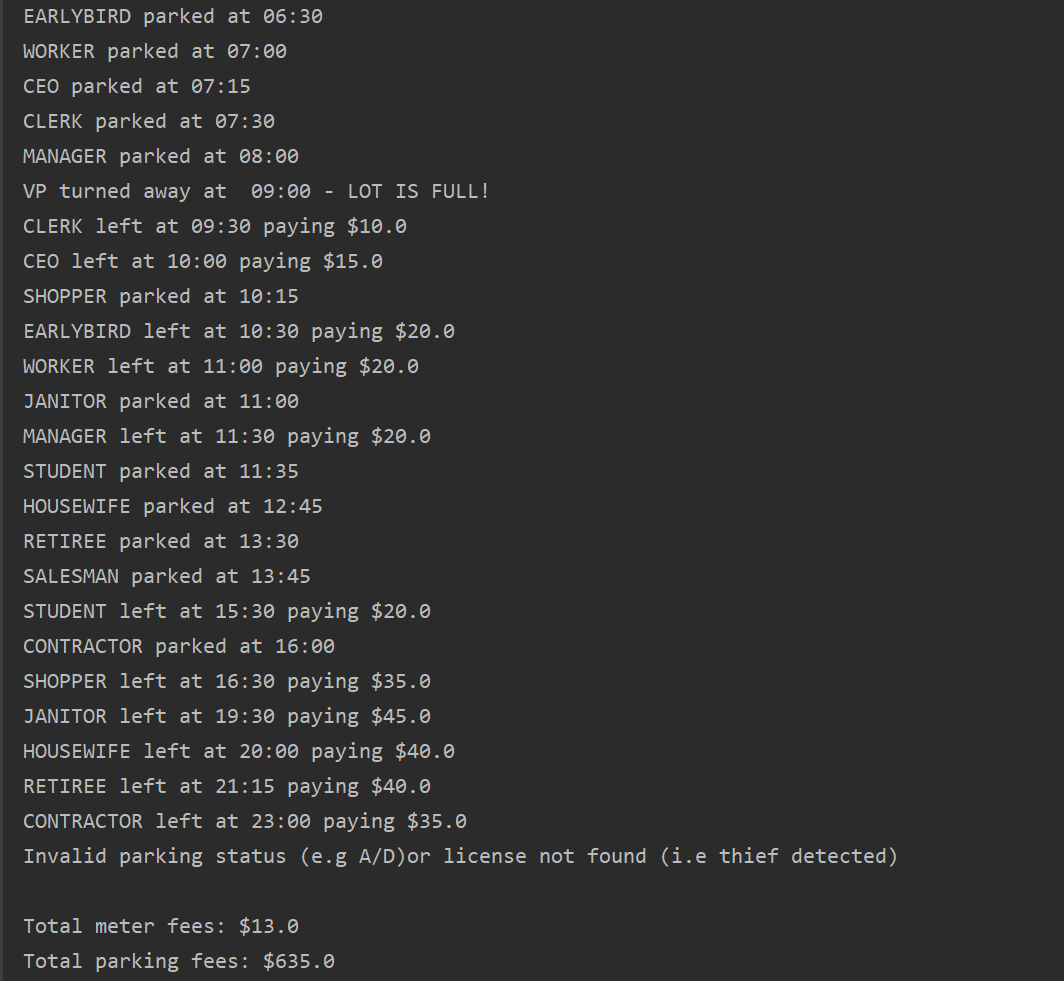
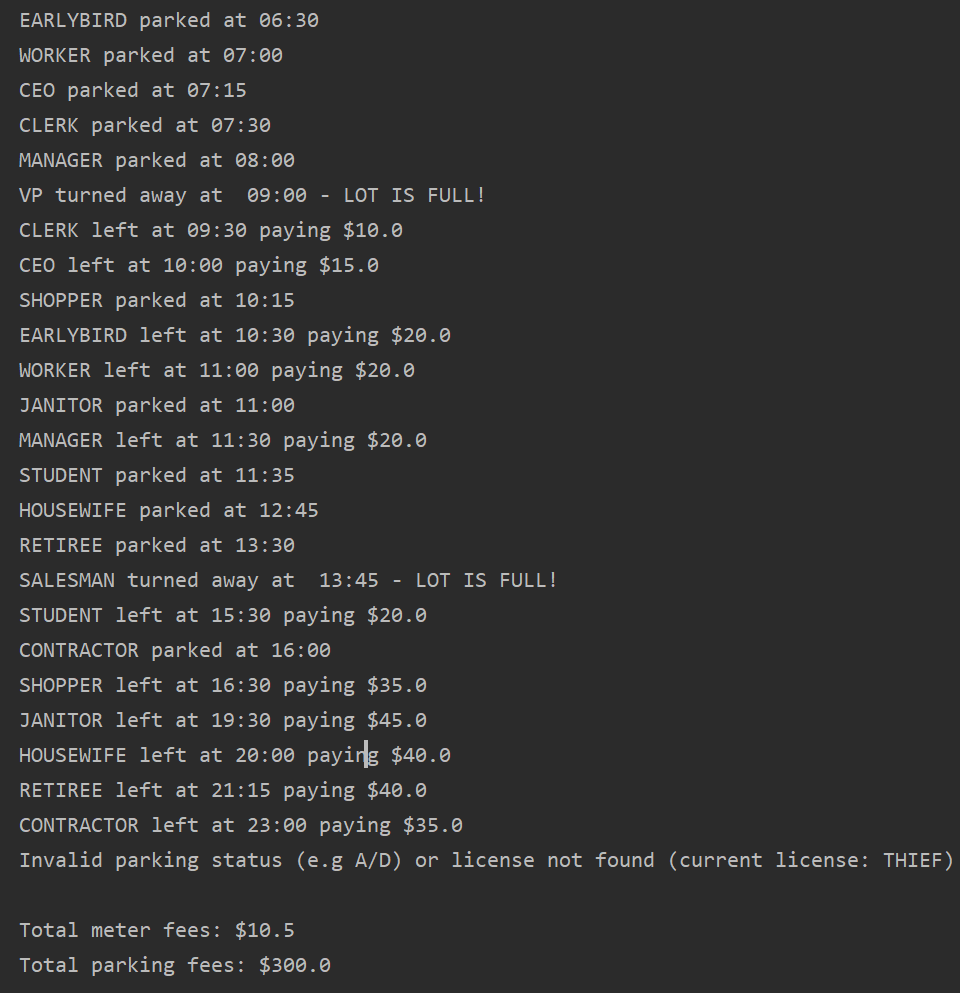
A3 - Fixed some bugs, made prettier
Total parking fees are now correct.
Ally counter fixed (wasn't decrementing or incrementing properly)
Added some enters, some comments.

diff --git a/A3CalebSnell/src/ParkingLot.java b/A3CalebSnell/src/ParkingLot.java
@@ -60,8 +60,6 @@ public class ParkingLot {
                     // Increment number of cars in ally, and print report
                     allyCounter++;
                     System.out.printf("%s%s%s%n", license, " parked at ", parkingSpots.peek().getArrivalTime());
-
-
                 }
                 // Report that lot is full
                 else {
@@ -77,10 +75,8 @@ public class ParkingLot {
                     parkingStreet.add(parkingSpots.pop());
                     allyCounter--;
 
-                    // Calculate meter and parking fees
+                    // Calculate meter fees
                     streetMeterFees = streetMeterFees + METER_FEE;
-                    totalParkingFees = totalParkingFees + parkingFee(parkingSpots.peek().getArrivalTime(),
-                            LocalTime.of(timeHour, timeMin), PARKING_FEE_HOURLY);
                 }
                 // Display departure report
                 System.out.printf("%s%s%s%s%s%n", parkingSpots.peek().getLicense(), " left at ",
@@ -88,16 +84,21 @@ public class ParkingLot {
                         parkingFee(parkingSpots.peek().getArrivalTime(),
                                 LocalTime.of(timeHour, timeMin), PARKING_FEE_HOURLY));
 
+                // Calculate total parking fees before car is removed
+                totalParkingFees = totalParkingFees + parkingFee(parkingSpots.peek().getArrivalTime(),
+                        LocalTime.of(timeHour, timeMin), PARKING_FEE_HOURLY);
                 // Remove requested car
                 parkingSpots.pop();
+                allyCounter--;
 
                 // Loop until metered street is empty
                 while (!parkingStreet.isEmpty()) {
                     parkingSpots.push(parkingStreet.pop());
+                    allyCounter++;
                 }
             } else {
-                System.out.println("Invalid parking status (e.g A/D)" +
-                        "or license not found (i.e thief detected)");
+                System.out.println("Invalid parking status (e.g A/D) " +
+                        "or license not found (current license: " + license + ")");
             }
         }
 
